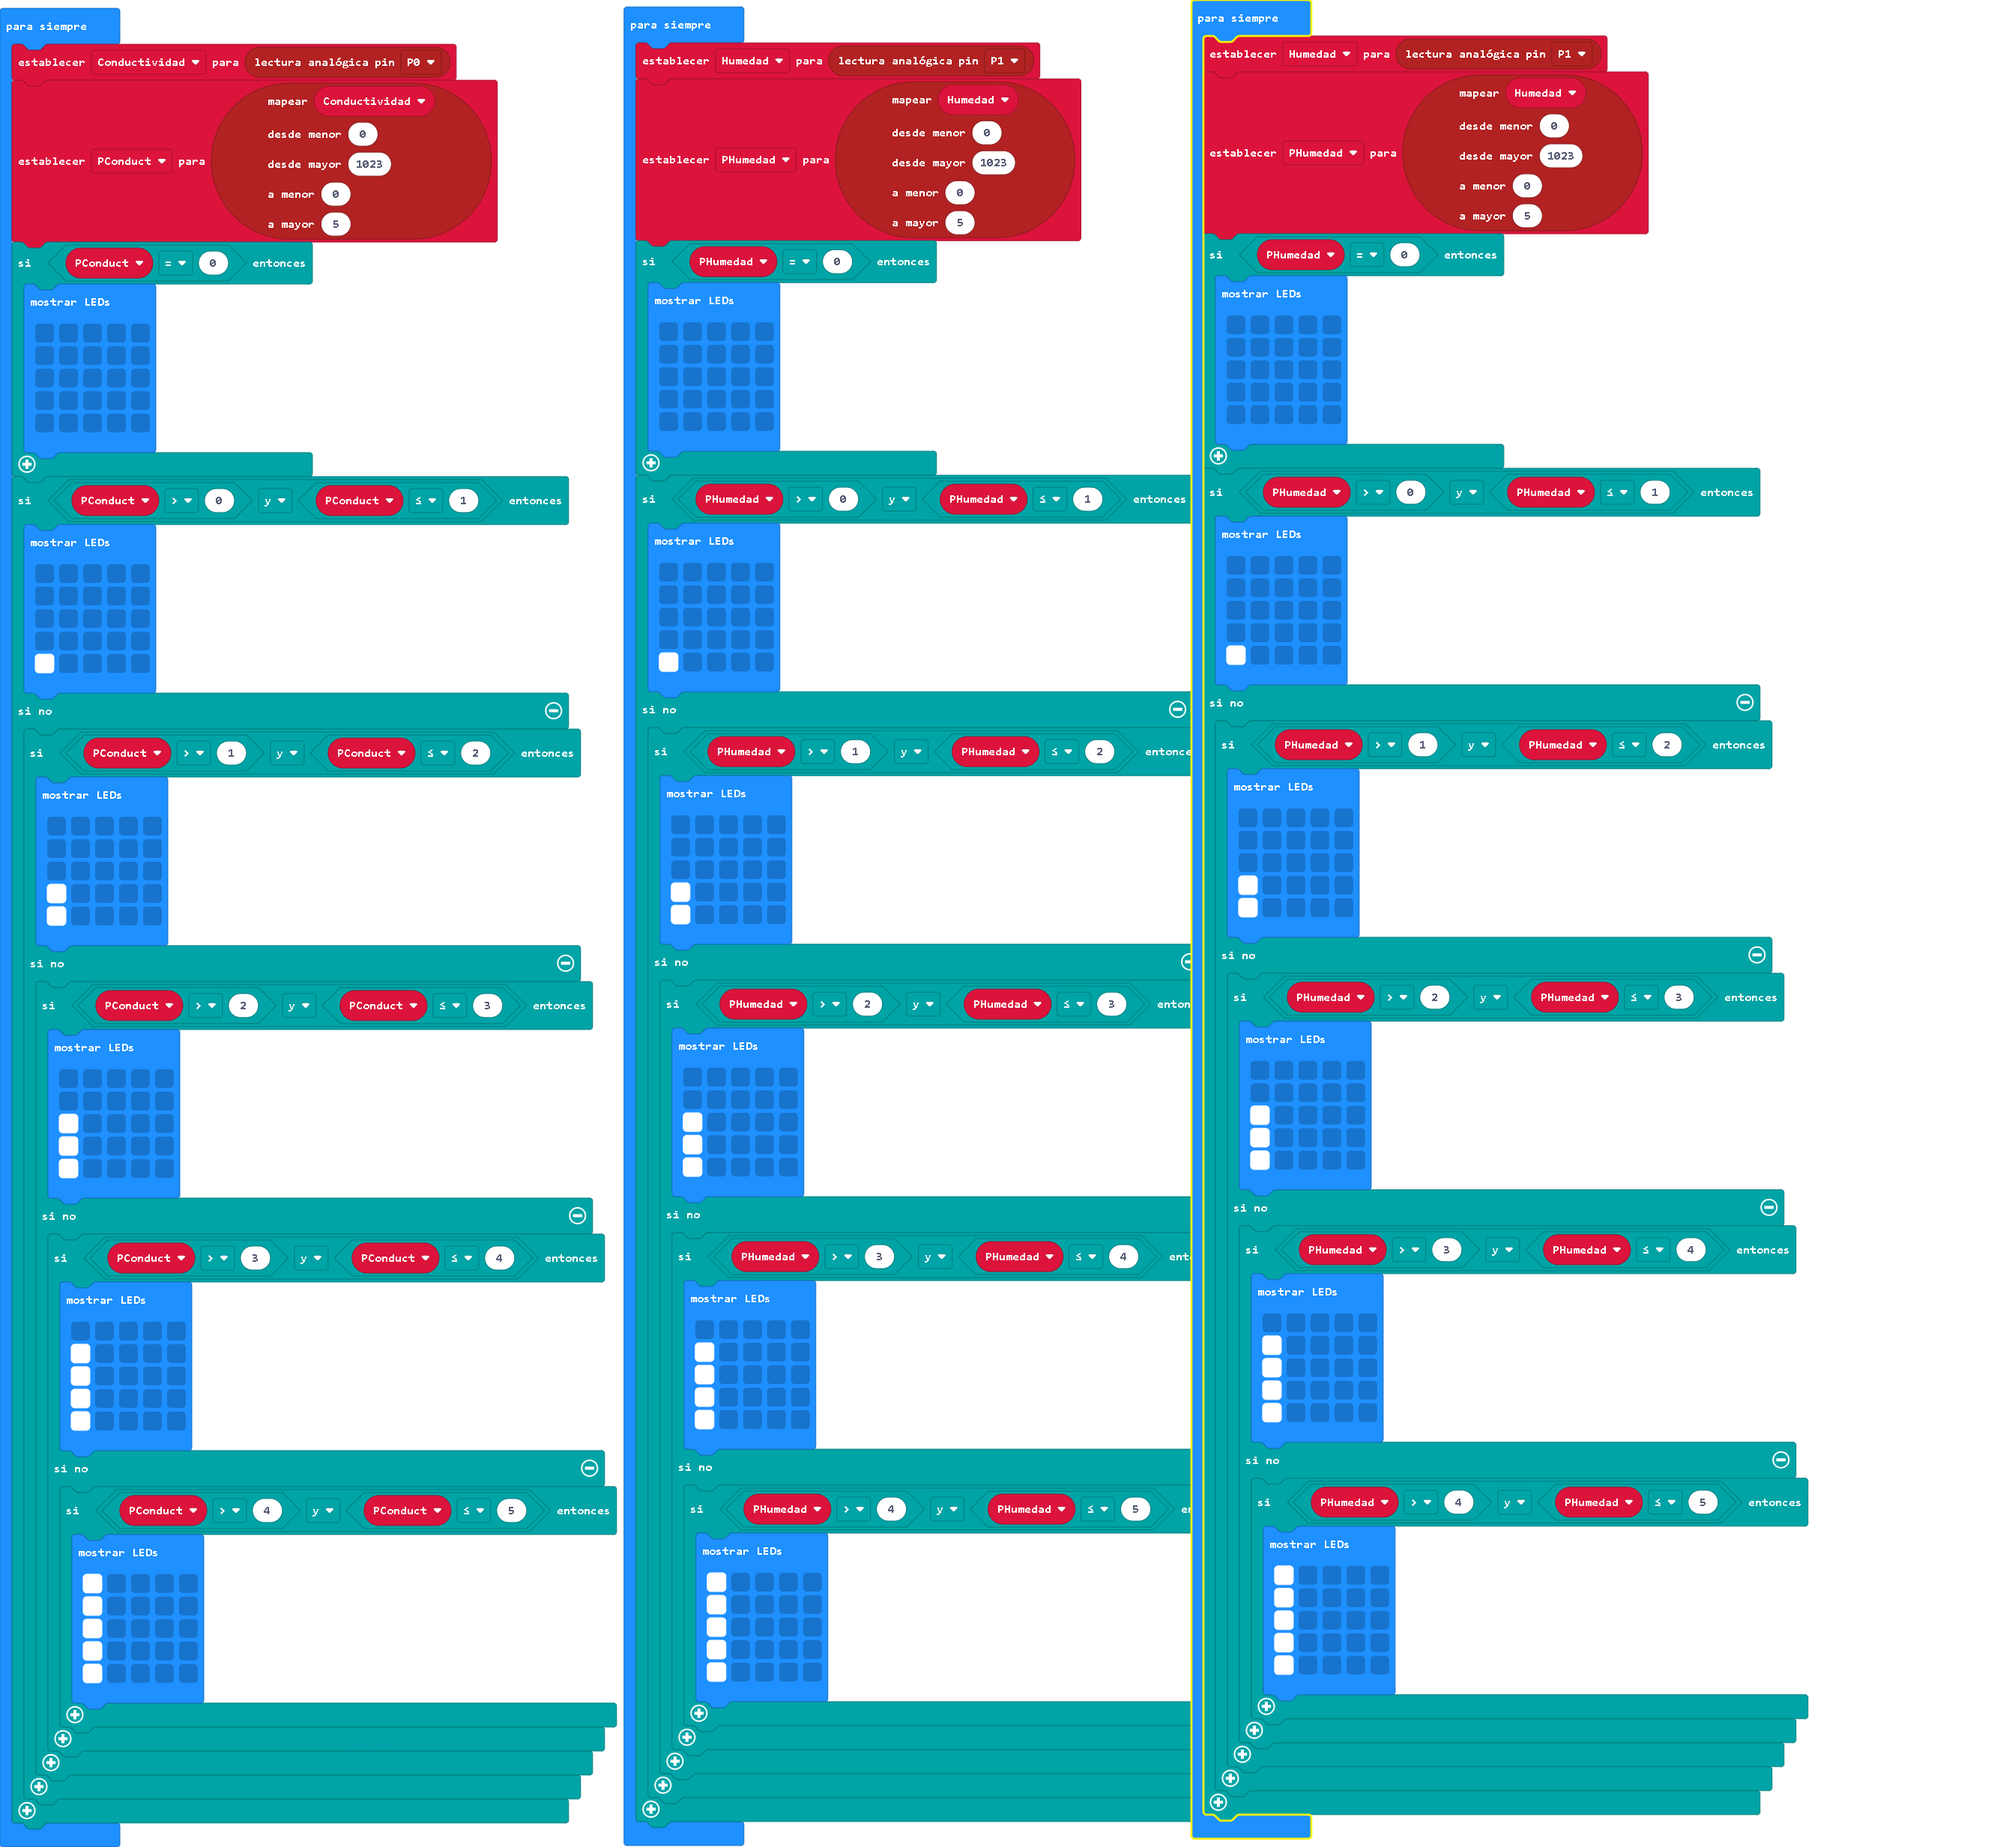
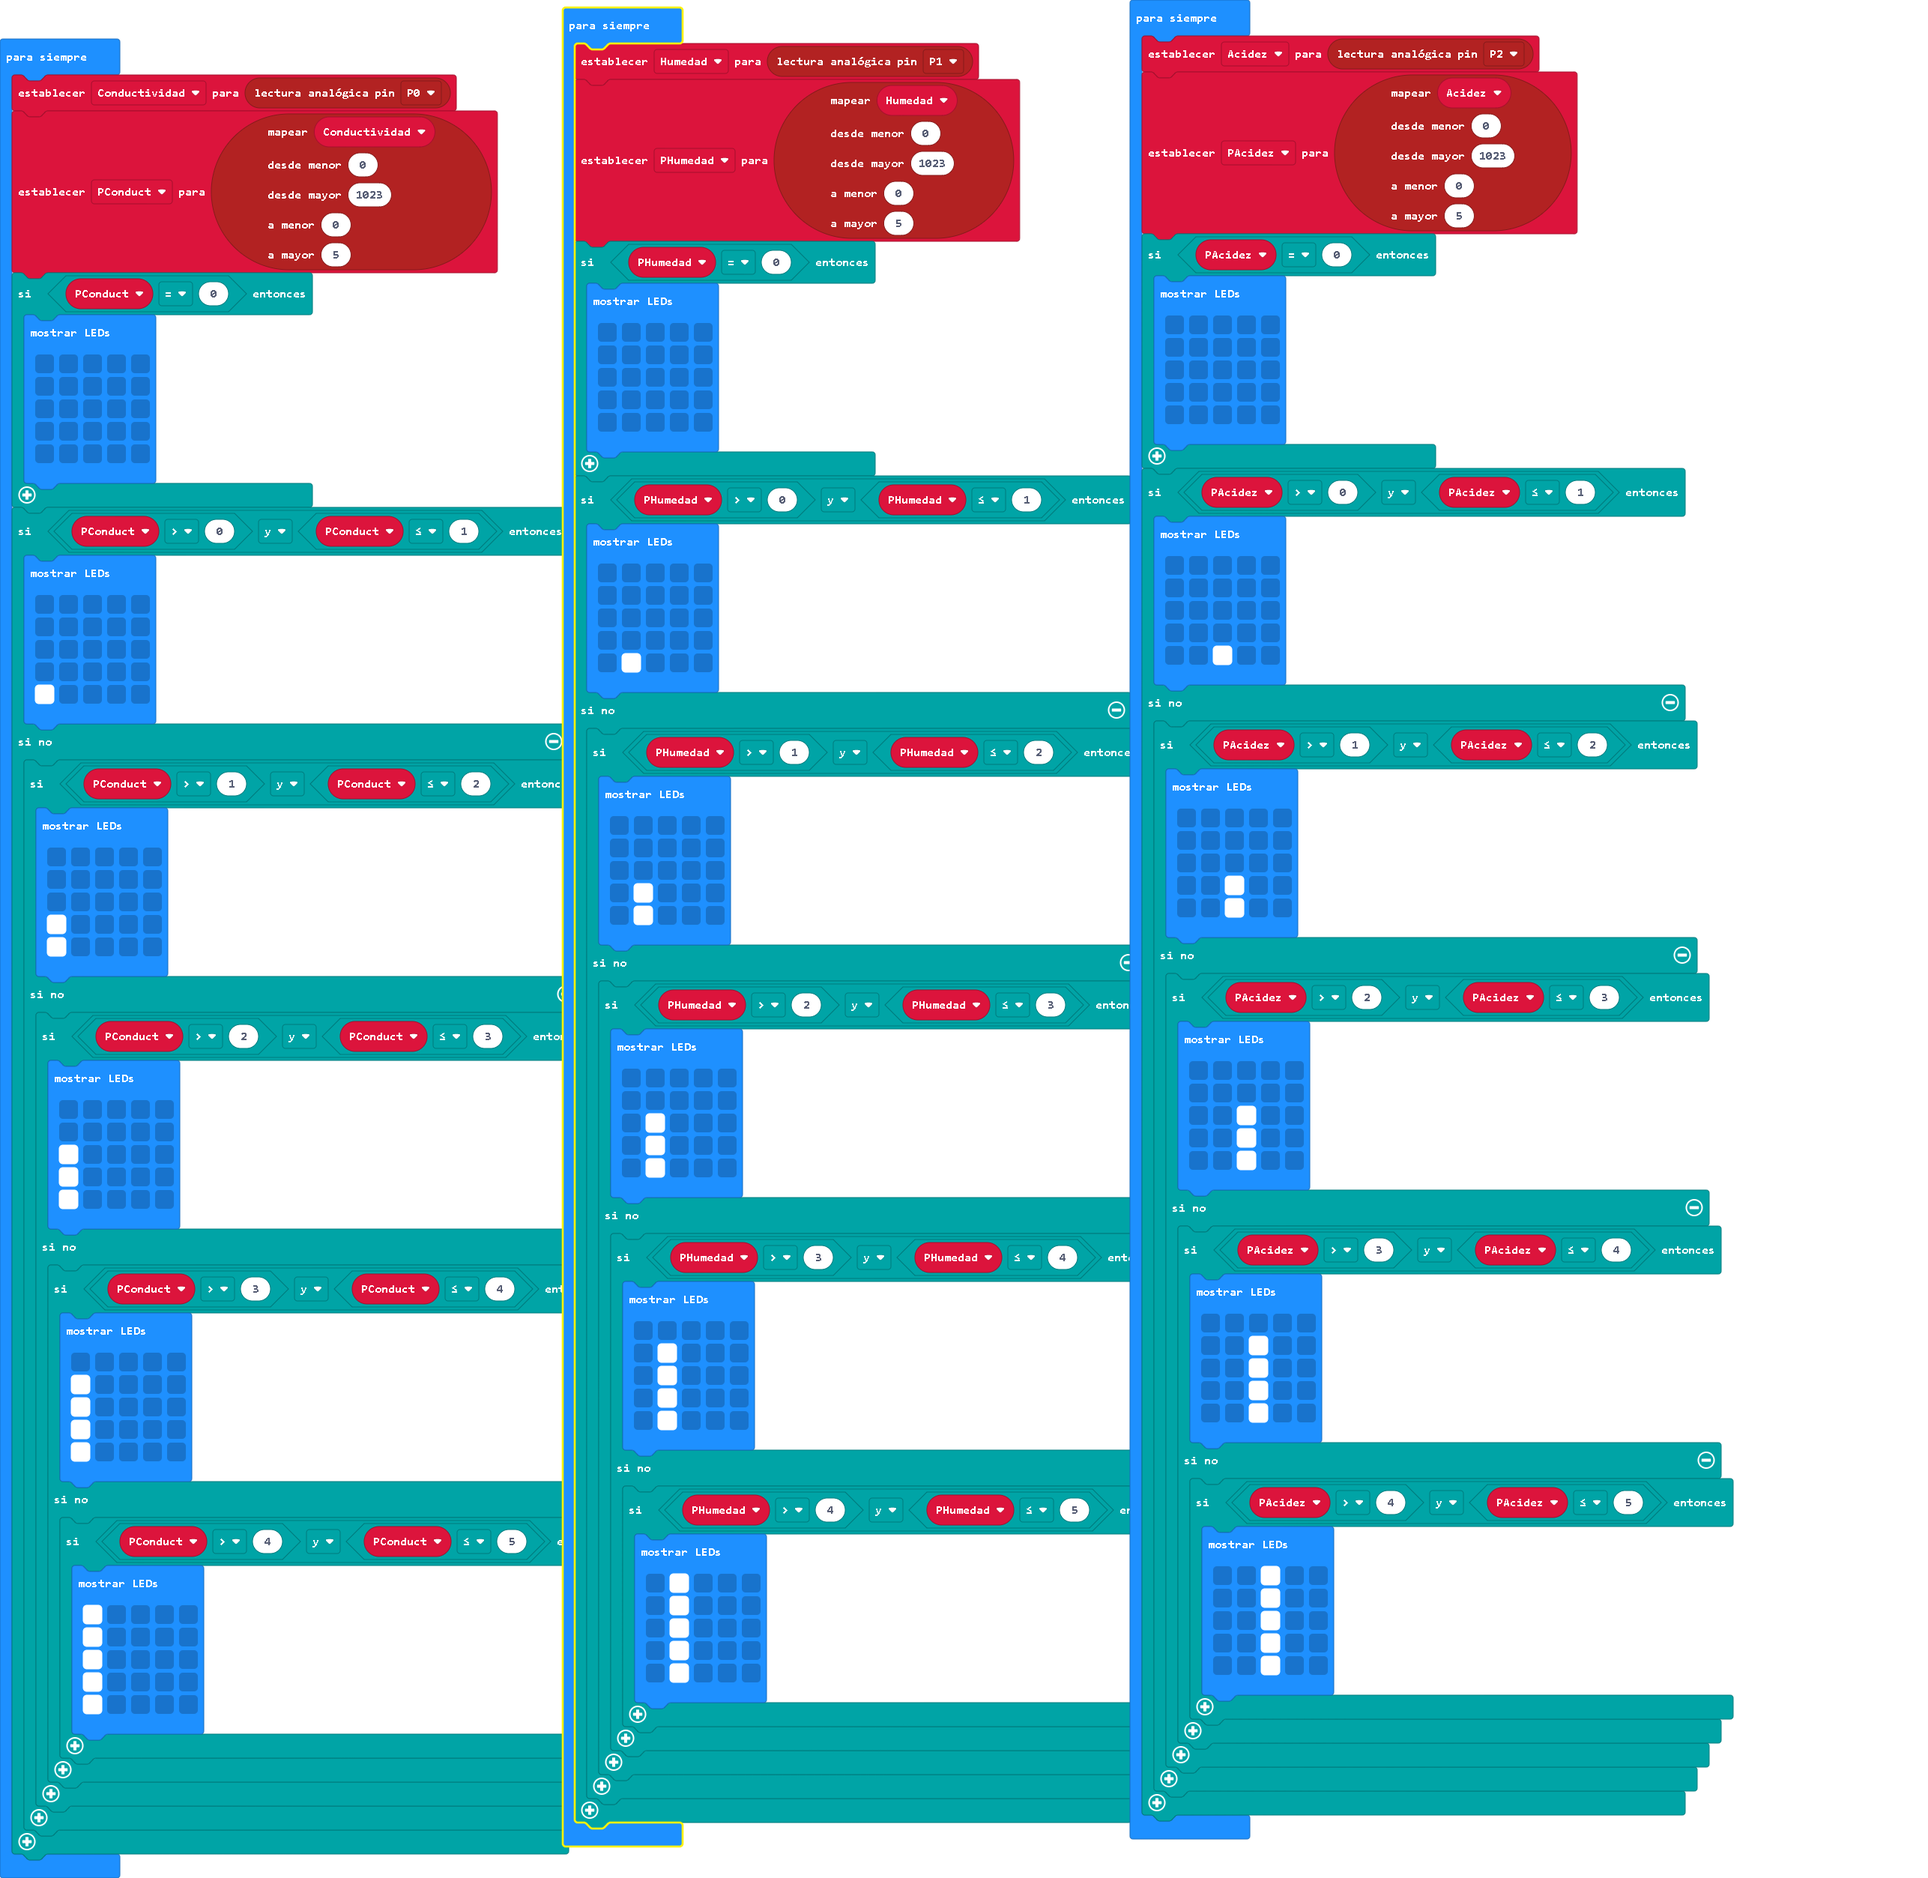
Actualizar main.blocks, main.ts

Changed region(s): [[0.0, 0.0, 0.9017, 0.9996]]

diff --git a/main.ts b/main.ts
@@ -1,7 +1,77 @@
-let Conductividad = 0
-let PConduct = 0
 let Humedad = 0
 let PHumedad = 0
+let Conductividad = 0
+let PConduct = 0
+let Acidez = 0
+let PAcidez = 0
+basic.forever(function () {
+    Humedad = pins.analogReadPin(AnalogPin.P1)
+    PHumedad = pins.map(
+    Humedad,
+    0,
+    1023,
+    0,
+    5
+    )
+    if (PHumedad == 0) {
+        basic.showLeds(`
+            . . . . .
+            . . . . .
+            . . . . .
+            . . . . .
+            . . . . .
+            `)
+    }
+    if (PHumedad > 0 && PHumedad <= 1) {
+        basic.showLeds(`
+            . . . . .
+            . . . . .
+            . . . . .
+            . . . . .
+            . # . . .
+            `)
+    } else {
+        if (PHumedad > 1 && PHumedad <= 2) {
+            basic.showLeds(`
+                . . . . .
+                . . . . .
+                . . . . .
+                . # . . .
+                . # . . .
+                `)
+        } else {
+            if (PHumedad > 2 && PHumedad <= 3) {
+                basic.showLeds(`
+                    . . . . .
+                    . . . . .
+                    . # . . .
+                    . # . . .
+                    . # . . .
+                    `)
+            } else {
+                if (PHumedad > 3 && PHumedad <= 4) {
+                    basic.showLeds(`
+                        . . . . .
+                        . # . . .
+                        . # . . .
+                        . # . . .
+                        . # . . .
+                        `)
+                } else {
+                    if (PHumedad > 4 && PHumedad <= 5) {
+                        basic.showLeds(`
+                            . # . . .
+                            . # . . .
+                            . # . . .
+                            . # . . .
+                            . # . . .
+                            `)
+                    }
+                }
+            }
+        }
+    }
+})
 basic.forever(function () {
     Conductividad = pins.analogReadPin(AnalogPin.P0)
     PConduct = pins.map(
@@ -71,15 +141,15 @@ basic.forever(function () {
     }
 })
 basic.forever(function () {
-    Humedad = pins.analogReadPin(AnalogPin.P1)
-    PHumedad = pins.map(
-    Humedad,
+    Acidez = pins.analogReadPin(AnalogPin.P2)
+    PAcidez = pins.map(
+    Acidez,
     0,
     1023,
     0,
     5
     )
-    if (PHumedad == 0) {
+    if (PAcidez == 0) {
         basic.showLeds(`
             . . . . .
             . . . . .
@@ -88,117 +158,49 @@ basic.forever(function () {
             . . . . .
             `)
     }
-    if (PHumedad > 0 && PHumedad <= 1) {
+    if (PAcidez > 0 && PAcidez <= 1) {
         basic.showLeds(`
             . . . . .
             . . . . .
             . . . . .
             . . . . .
-            # . . . .
+            . . # . .
             `)
     } else {
-        if (PHumedad > 1 && PHumedad <= 2) {
+        if (PAcidez > 1 && PAcidez <= 2) {
             basic.showLeds(`
                 . . . . .
                 . . . . .
                 . . . . .
-                # . . . .
-                # . . . .
+                . . # . .
+                . . # . .
                 `)
         } else {
-            if (PHumedad > 2 && PHumedad <= 3) {
+            if (PAcidez > 2 && PAcidez <= 3) {
                 basic.showLeds(`
                     . . . . .
                     . . . . .
-                    # . . . .
-                    # . . . .
-                    # . . . .
+                    . . # . .
+                    . . # . .
+                    . . # . .
                     `)
             } else {
-                if (PHumedad > 3 && PHumedad <= 4) {
+                if (PAcidez > 3 && PAcidez <= 4) {
                     basic.showLeds(`
                         . . . . .
-                        # . . . .
-                        # . . . .
-                        # . . . .
-                        # . . . .
+                        . . # . .
+                        . . # . .
+                        . . # . .
+                        . . # . .
                         `)
                 } else {
-                    if (PHumedad > 4 && PHumedad <= 5) {
+                    if (PAcidez > 4 && PAcidez <= 5) {
                         basic.showLeds(`
-                            # . . . .
-                            # . . . .
-                            # . . . .
-                            # . . . .
-                            # . . . .
-                            `)
-                    }
-                }
-            }
-        }
-    }
-})
-basic.forever(function () {
-    Humedad = pins.analogReadPin(AnalogPin.P1)
-    PHumedad = pins.map(
-    Humedad,
-    0,
-    1023,
-    0,
-    5
-    )
-    if (PHumedad == 0) {
-        basic.showLeds(`
-            . . . . .
-            . . . . .
-            . . . . .
-            . . . . .
-            . . . . .
-            `)
-    }
-    if (PHumedad > 0 && PHumedad <= 1) {
-        basic.showLeds(`
-            . . . . .
-            . . . . .
-            . . . . .
-            . . . . .
-            # . . . .
-            `)
-    } else {
-        if (PHumedad > 1 && PHumedad <= 2) {
-            basic.showLeds(`
-                . . . . .
-                . . . . .
-                . . . . .
-                # . . . .
-                # . . . .
-                `)
-        } else {
-            if (PHumedad > 2 && PHumedad <= 3) {
-                basic.showLeds(`
-                    . . . . .
-                    . . . . .
-                    # . . . .
-                    # . . . .
-                    # . . . .
-                    `)
-            } else {
-                if (PHumedad > 3 && PHumedad <= 4) {
-                    basic.showLeds(`
-                        . . . . .
-                        # . . . .
-                        # . . . .
-                        # . . . .
-                        # . . . .
-                        `)
-                } else {
-                    if (PHumedad > 4 && PHumedad <= 5) {
-                        basic.showLeds(`
-                            # . . . .
-                            # . . . .
-                            # . . . .
-                            # . . . .
-                            # . . . .
+                            . . # . .
+                            . . # . .
+                            . . # . .
+                            . . # . .
+                            . . # . .
                             `)
                     }
                 }
